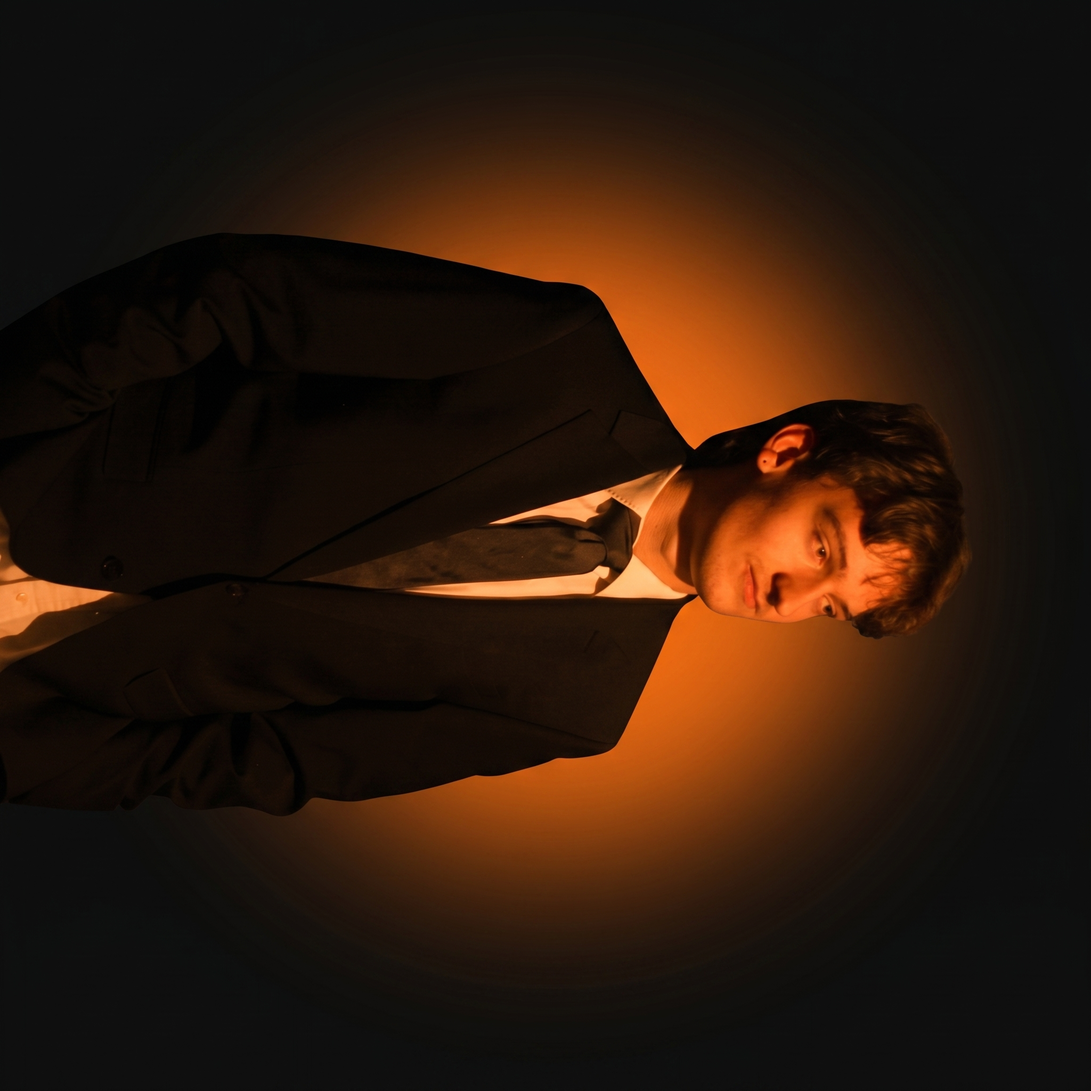
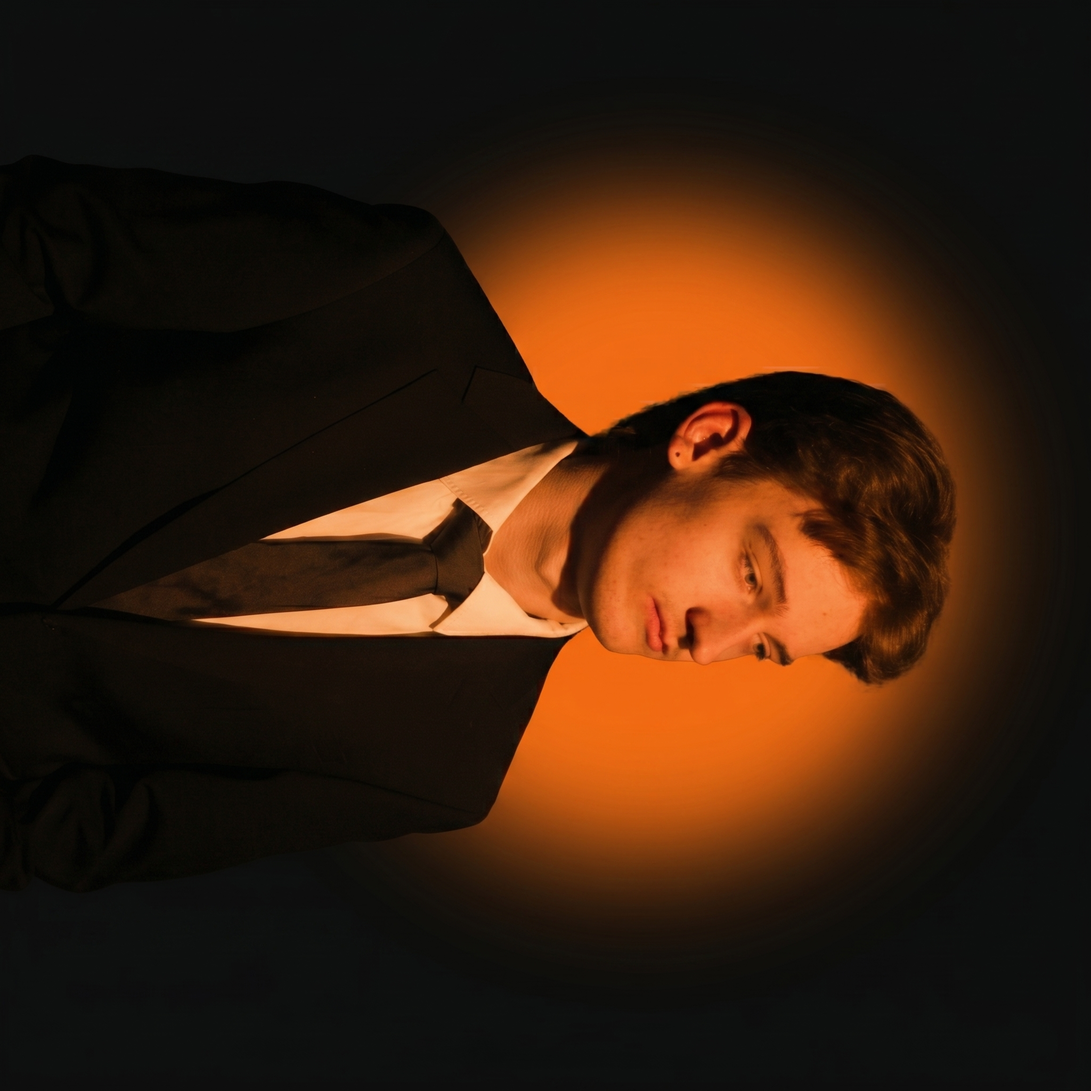
chore: replace Lennard team photo with new version + cache-bust
Swap in the refreshed Lennard.png from the new nano banana run and
bump the query string from ?v=2 to ?v=3 so nginx's immutable 1y
cache doesn't serve the old version to repeat visitors.

Changed region(s): [[0.0, 0.0938, 0.9375, 0.875]]

diff --git a/index.html b/index.html
@@ -1161,7 +1161,7 @@
       <!-- Lennard -->
       <div class="reveal rc team-card h-full flex flex-col overflow-hidden">
         <div class="w-full aspect-square relative overflow-hidden" style="background:radial-gradient(circle at 50% 60%,rgba(249,115,22,0.1),transparent 70%),#0a0a0a;">
-          <img src="assets/team/Lennard.png?v=2" alt="Lennard Schumacher — Co-Founder Videoproduktion & Marketing bei BJL Studios" class="team-photo" loading="lazy" decoding="async">
+          <img src="assets/team/Lennard.png?v=3" alt="Lennard Schumacher — Co-Founder Videoproduktion & Marketing bei BJL Studios" class="team-photo" loading="lazy" decoding="async">
           <div class="glow-ring absolute inset-0 rounded-full m-8 border border-orange-400/20 pointer-events-none" style="box-shadow:0 0 30px rgba(249,115,22,0.12);"></div>
         </div>
         <div class="p-6 flex flex-col flex-1">
